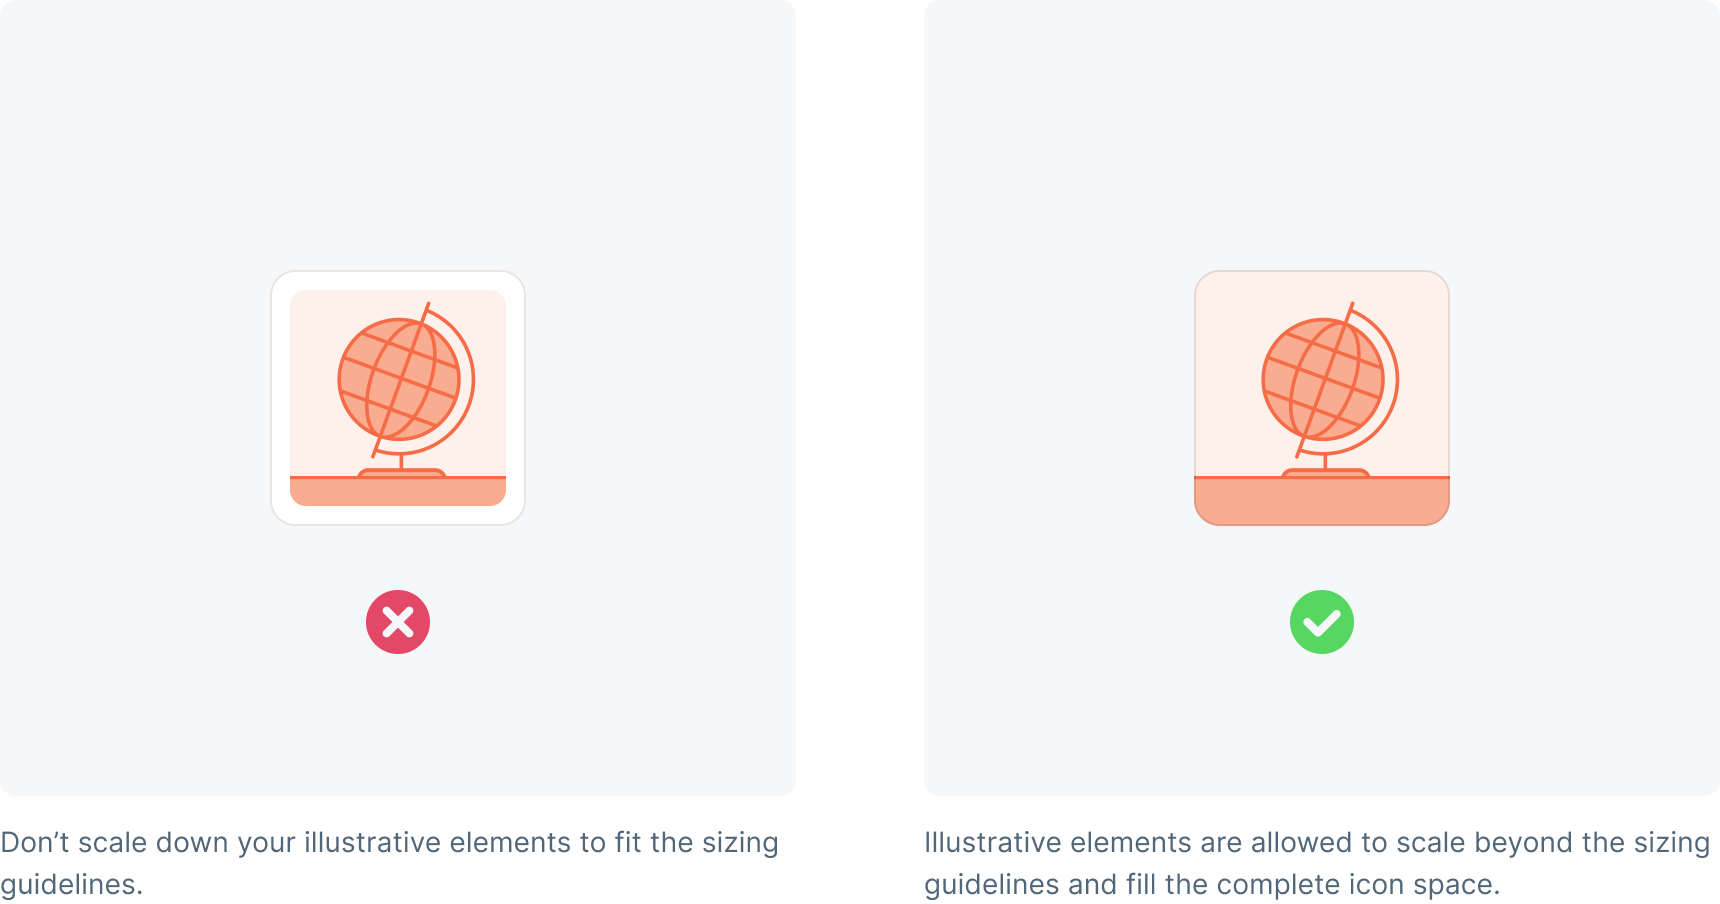
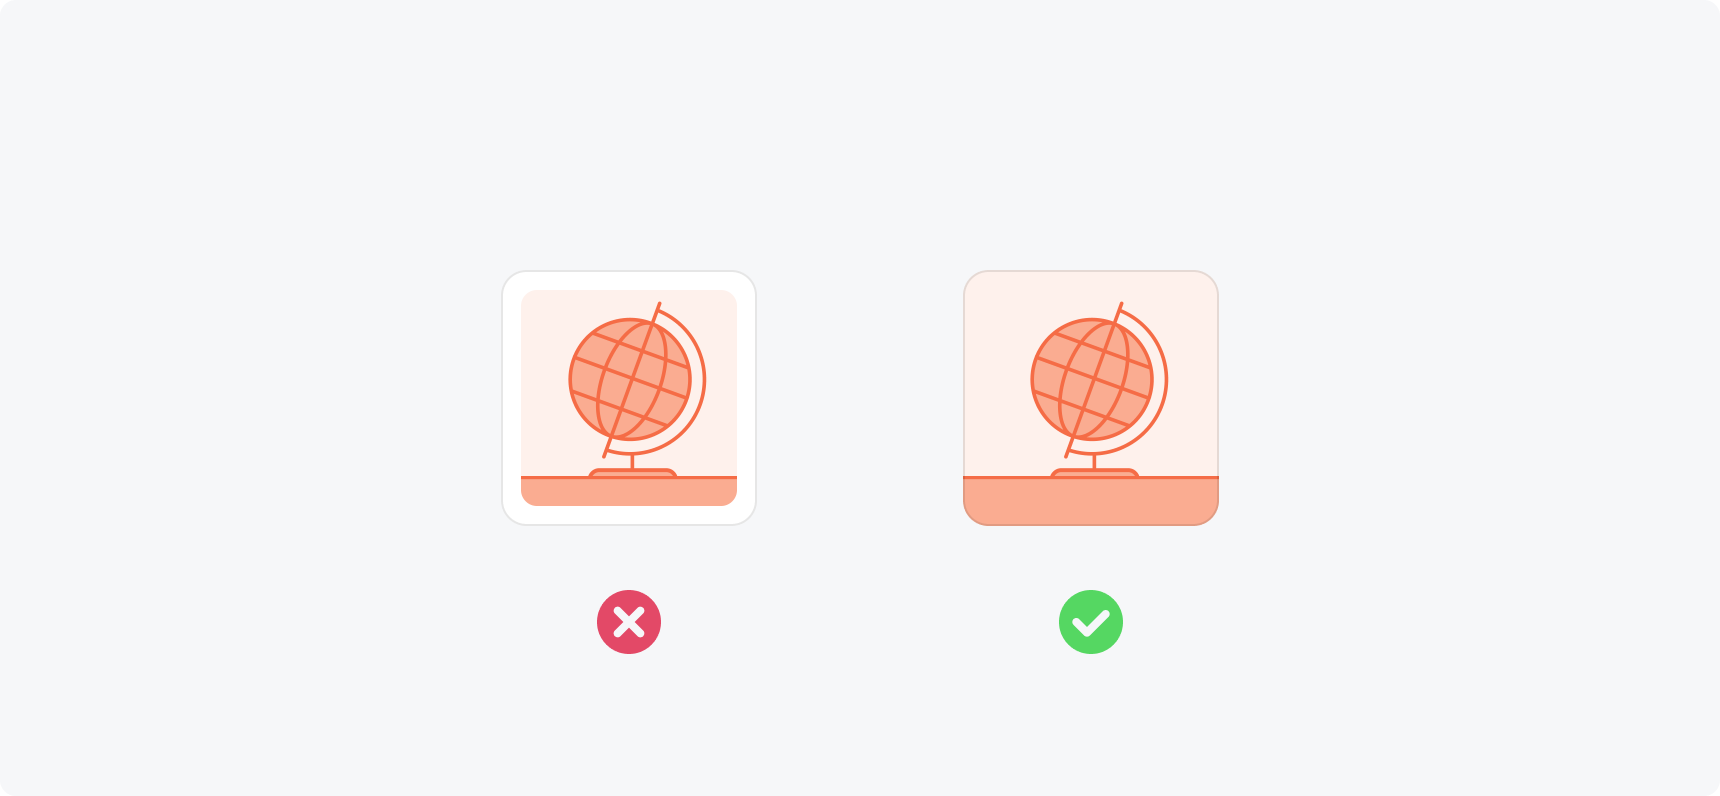
Updated contents

diff --git a/guides/plugins/icon-guidelines.md b/guides/plugins/icon-guidelines.md
@@ -18,57 +18,81 @@ Additionally, it ensures that all icons are of similar quality, making it easier
 
 ### Elements
 
-You should always prefer graphical elements or logos to photos or screenshots in your icon designs.
+**You should always prefer graphical elements or logos to photos or screenshots in your icon designs.**
 
 ![](../../.gitbook/assets/extension-icon-guidelines-elements-1.png)
+Don’t use a screenshot or image as extension icon. Come up with a logo or graphical element that fits your extension.
 
-Don’t use graphical elements that look close or identical to user interface elements such as buttons, notification badges, checkboxes, switches or similar.
+<br/>
+
+**Don’t use graphical elements that look close or identical to user interface elements such as buttons, notification badges, checkboxes, switches or similar.**
 
 ![](../../.gitbook/assets/extension-icon-guidelines-elements-2.png)
+Graphical elements that look similar to user interface elements could mislead users.
 
-Don't use promotional elements like "SALE" banners or similar, which imply a ranking or sale status of your extension.
+<br/>
+
+**Don't use promotional elements like "SALE" banners or similar, which imply a ranking or sale status of your extension.**
 
 ![](../../.gitbook/assets/extension-icon-guidelines-elements-3.png)
+To promote your extension, you should use the provided options in the Shopware Store.
 
-To prevent text from becoming unreadable at smaller icon sizes, try to avoid using written elements whenever possible.
+<br/>
+
+**To prevent text from becoming unreadable at smaller icon sizes, try to avoid using written elements whenever possible.**
 
 ![](../../.gitbook/assets/extension-icon-guidelines-elements-4.png)
+Avoid using text to improve legibility on smaller icon sizes. Try to use simple graphical elements without text and align them using the sizing guidelines.
 
 ### Sizing
 
-Try to position elements such as logos using the sizing guidelines provided. To do this, align them to the closest fitting shape and stay within the red limit area.
+**Try to position elements such as logos using the sizing guidelines provided. To do this, align them to the closest fitting shape and stay within the red limit area.**
 
 ![](../../.gitbook/assets/extension-icon-guidelines-sizing-1.png)
+Don’t size your elements ignoring the sizing guidelines. Align your elements to the closest fitting shape and stay within the red limit area.
 
-Supporting, illustrative elements are allowed to extend beyond the red limit area of the sizing guidelines. However, you should always try to keep your main elements within these guidelines.
+<br/>
+
+**Supporting, illustrative elements are allowed to extend beyond the red limit area of the sizing guidelines. However, you should always try to keep your main elements within these guidelines.**
 
 ![](../../.gitbook/assets/extension-icon-guidelines-sizing-2.png)
+Don’t scale down your illustrative elements to fit the sizing guidelines. Illustrative elements are allowed to scale beyond the sizing guidelines and fill the complete icon space.
 
 ### Background and Shape
 
-You should provide your icon with a full-bleed, square background. We will fallback to a white background color for any transparent area.
+**You should provide your icon with a full-bleed, square background. We will fallback to a white background color for any transparent area.**
 
 ![](../../.gitbook/assets/extension-icon-guidelines-background-1.png)
+We dynamically add rounded corners, borders, and even shadows to your icon based on the use case.
 
-Don't round corners or use different icon shapes such as circles, stars, diamonds, etc. in your icon file. The shape of the icon is automatically defined by Shopware products.
+<br/>
+
+**Don't round corners or use different icon shapes such as circles, stars, diamonds, etc. in your icon file. The shape of the icon is automatically defined by Shopware products.**
 
 ![](../../.gitbook/assets/extension-icon-guidelines-background-2.png)
+Don't round corners or use different icon shapes such as circles, stars, diamonds, etc. Your icon file should contain a square, full-bleed version of your graphic without transparency.
 
-Don’t add drop shadows to the background of your icon. You can, however, use shadows within your icon design.
+<br/>
+
+**Don’t add drop shadows to the background of your icon. You can, however, use shadows within your icon design.**
 
 ![](../../.gitbook/assets/extension-icon-guidelines-background-3.png)
+Don’t add a shadow to the background of your icon. The use of shadows on elements within your icon is allowed.
 
 ### Adaptation of existing Logos
 
-To adapt your existing brand to the Shopware Store icon guidelines, try the following:
+**To adapt your existing brand to the Shopware Store icon guidelines, try the following:**
 
 - Scale and position elements according to the sizing guidelines
 - Try to adjust the icon background color to best match your brand
 - Don't force your logo to fill the entire icon space
 
 ![](../../.gitbook/assets/extension-icon-guidelines-logos-1.png)
+Aligning your logo with the sizing guidelines will result in a consistent look and feel of your extension when listed alongside others. In addition, experimenting with your brand colors as main or background colors will increase your brand recognition when compared to other extensions.
 
 ### Download design template
+
+To get started quickly, download our guidelines template for the design tool of your choice.
 
 - [Figma](FigmaCommunityFile.com)
 - [Sketch](../../.gitbook/assets/shopware-extension-store-icon-guidelines-sketch.sketch)
